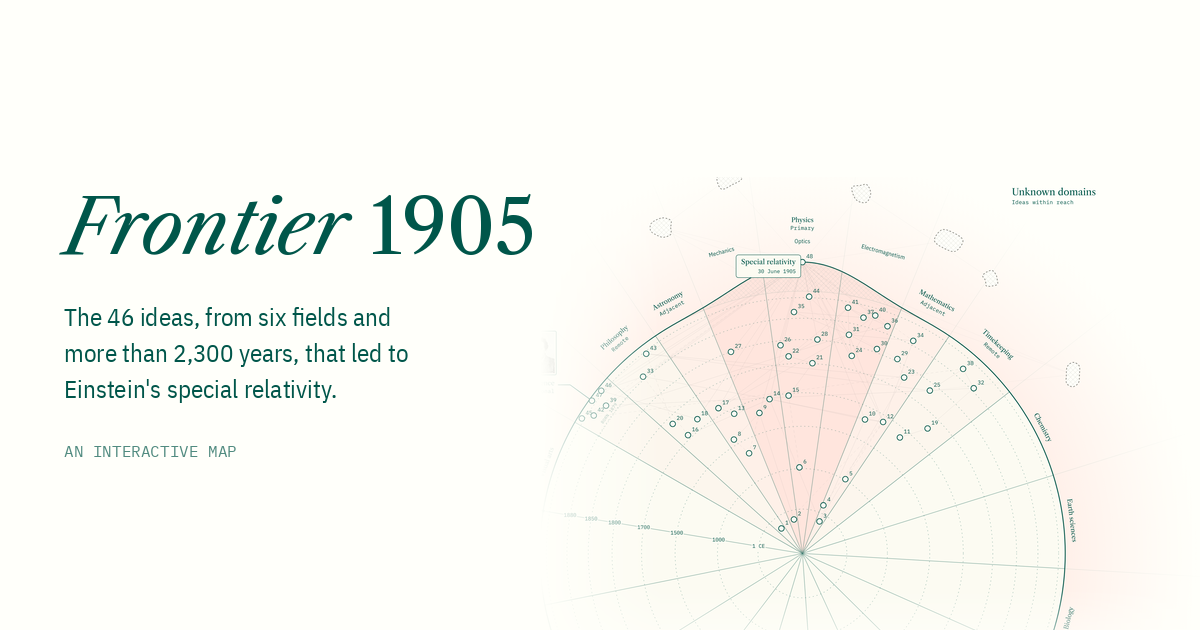
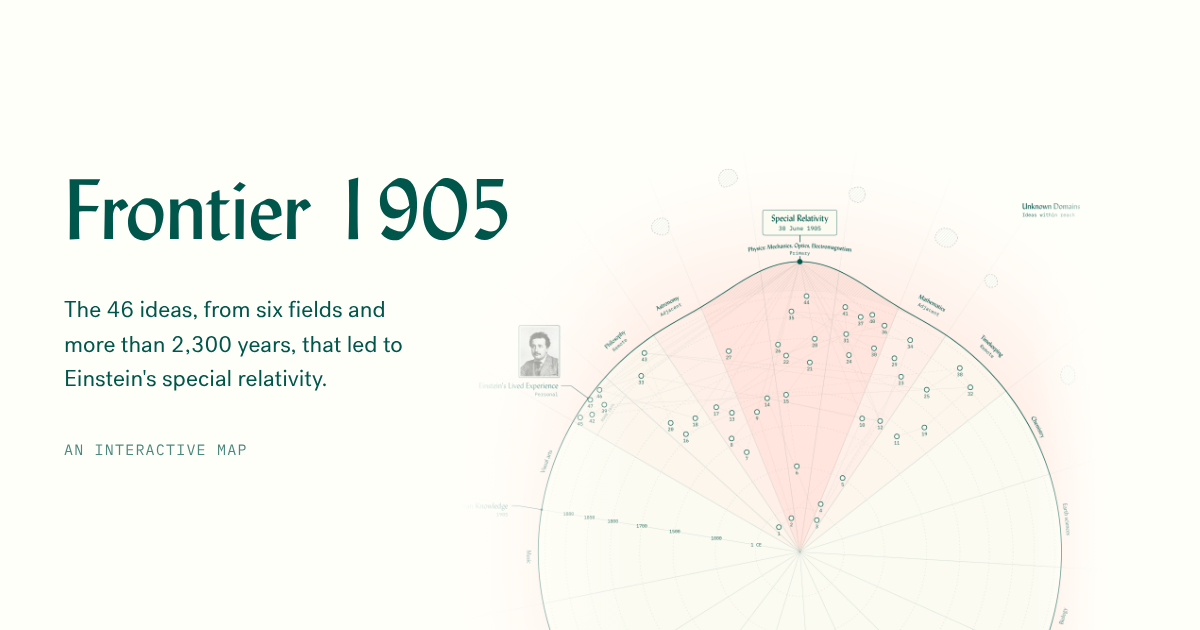
Social preview image in the brand fonts: Lydian title, Post Grotesk text, latest map
Claude-Session: https://claude.ai/code/session_0142fcxKZYcCDogvbpc7RBmD

diff --git a/index.html b/index.html
@@ -13,7 +13,7 @@
 <meta property="og:title" content="Frontier 1905">
 <meta property="og:description" content="The 46 ideas, from six fields and more than 2,300 years, that led to Einstein's special relativity.">
 <meta property="og:url" content="https://vibol-zulu.github.io/frontier-1905/">
-<meta property="og:image" content="https://vibol-zulu.github.io/frontier-1905/assets/og-image.png">
+<meta property="og:image" content="https://vibol-zulu.github.io/frontier-1905/assets/og-image.png?v=2">
 <meta property="og:image:width" content="1200">
 <meta property="og:image:height" content="630">
 <meta property="og:image:alt" content="Frontier 1905: a circle of human knowledge with a swell at special relativity.">

diff --git a/src/head.html b/src/head.html
@@ -8,7 +8,7 @@
 <meta property="og:title" content="Frontier 1905">
 <meta property="og:description" content="The 46 ideas, from six fields and more than 2,300 years, that led to Einstein's special relativity.">
 <meta property="og:url" content="https://vibol-zulu.github.io/frontier-1905/">
-<meta property="og:image" content="https://vibol-zulu.github.io/frontier-1905/assets/og-image.png">
+<meta property="og:image" content="https://vibol-zulu.github.io/frontier-1905/assets/og-image.png?v=2">
 <meta property="og:image:width" content="1200">
 <meta property="og:image:height" content="630">
 <meta property="og:image:alt" content="Frontier 1905: a circle of human knowledge with a swell at special relativity.">
